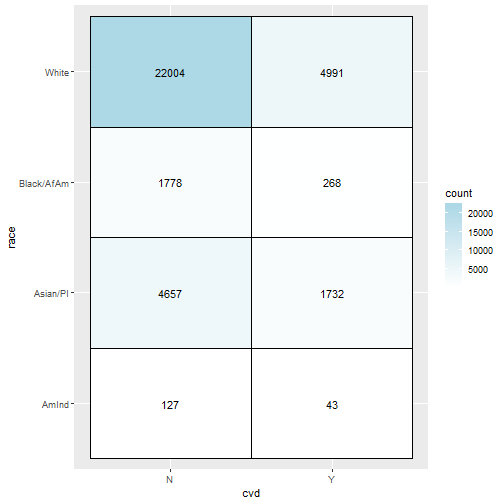
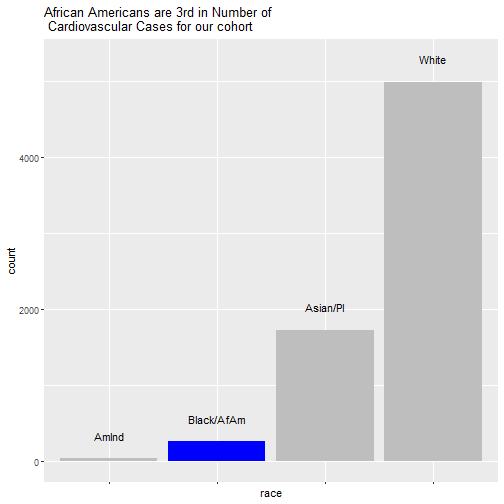
update

diff --git a/index.html b/index.html
@@ -46,10 +46,10 @@ class: center, middle
 ---
 # Motivation: Exploratory versus Explanatory
 
-- **Exploratory analysis**: 
-    - exploring and understanding the data, conducting the analysis
-- **Explanatory analysis**: 
-    - explaining your findings from your analysis in a coherent narrative that leads to a call to action
+**Exploratory analysis**: 
+  - exploring and understanding the data, conducting the analysis
+**Explanatory analysis**: 
+  - explaining your findings from your analysis in a coherent narrative that leads to a call to action
 
 ---
 # You are not your audience
@@ -163,6 +163,8 @@ May be better than straight tables! Highlight differences using color.
 .pull-right[
 &lt;img src="img/heatmap.png" width="731" /&gt;
 ]
+
+.footnote[Storytelling with Data]
 ---
 # `geom_count()`
 
@@ -184,30 +186,18 @@ Focus on three techniques
 ---
 # Preattentive Attributes
 
+.pull-left[
 Ways to highlight properties of graphs even before people are even "paying attention", or consciously processing the graph:
 
 - color
-- contrast
+- contrast]
 
----
-# Let's summarize the data
+.pull-right[
+&lt;img src="img/threes.png" width="743" /&gt;
 
-Summarizing by race and cardiovascular disease
+]
 
-Using `group_by()/summarize()`:
-
-
-```r
-cvd_race_count &lt;- cvd_patient %&gt;% 
-  mutate(race=factor(race)) %&gt;% 
-* group_by(race, cvd) %&gt;% summarize(count=n())
-```
----
-# CVD Race Count
-
-<div id="htmlwidget-e00c11b859fe72aed91b" style="width:100%;height:auto;" class="datatables html-widget"></div>
-<script type="application/json" data-for="htmlwidget-e00c11b859fe72aed91b">{"x":{"filter":"none","data":[["1","2","3","4","5","6","7","8"],["AmInd","AmInd","Asian/PI","Asian/PI","Black/AfAm","Black/AfAm","White","White"],["N","Y","N","Y","N","Y","N","Y"],[127,43,4657,1732,1778,268,22004,4991]],"container":"<table class=\"display\">\n  <thead>\n    <tr>\n      <th> <\/th>\n      <th>race<\/th>\n      <th>cvd<\/th>\n      <th>count<\/th>\n    <\/tr>\n  <\/thead>\n<\/table>","options":{"columnDefs":[{"className":"dt-right","targets":3},{"orderable":false,"targets":0}],"order":[],"autoWidth":false,"orderClasses":false}},"evals":[],"jsHooks":[]}</script>
-
+.footnote[Storytelling with Data]
 ---
 # Context: Ways to highlight parts of a graph
 
@@ -232,8 +222,8 @@ fullset &lt;- cvd_patient %&gt;%
 
 There's a new column called `highlight`:
 
-<div id="htmlwidget-daec2fc930e0523d78b9" style="width:100%;height:auto;" class="datatables html-widget"></div>
-<script type="application/json" data-for="htmlwidget-daec2fc930e0523d78b9">{"x":{"filter":"none","data":[["1","2","3","4"],["AmInd","Asian/PI","Black/AfAm","White"],[43,1732,268,4991],["N","N","Y","N"]],"container":"<table class=\"display\">\n  <thead>\n    <tr>\n      <th> <\/th>\n      <th>race<\/th>\n      <th>count<\/th>\n      <th>highlight<\/th>\n    <\/tr>\n  <\/thead>\n<\/table>","options":{"columnDefs":[{"className":"dt-right","targets":2},{"orderable":false,"targets":0}],"order":[],"autoWidth":false,"orderClasses":false}},"evals":[],"jsHooks":[]}</script>
+<div id="htmlwidget-083fcf0e1bafbac55fb4" style="width:100%;height:auto;" class="datatables html-widget"></div>
+<script type="application/json" data-for="htmlwidget-083fcf0e1bafbac55fb4">{"x":{"filter":"none","data":[["1","2","3","4"],["AmInd","Asian/PI","Black/AfAm","White"],[43,1732,268,4991],["N","N","Y","N"]],"container":"<table class=\"display\">\n  <thead>\n    <tr>\n      <th> <\/th>\n      <th>race<\/th>\n      <th>count<\/th>\n      <th>highlight<\/th>\n    <\/tr>\n  <\/thead>\n<\/table>","options":{"columnDefs":[{"className":"dt-right","targets":2},{"orderable":false,"targets":0}],"order":[],"autoWidth":false,"orderClasses":false}},"evals":[],"jsHooks":[]}</script>
 
 ---
 ## Highlighting the data
@@ -256,7 +246,7 @@ out_plot &lt;- ggplot(data=fullset, aes(x=race, y=count, fill=highlight)) +
 ---
 # Resulting Graph
 
-![](index_files/figure-html/unnamed-chunk-9-1.png)&lt;!-- --&gt;
+![](index_files/figure-html/unnamed-chunk-8-1.png)&lt;!-- --&gt;
 
 ---
 # Reduce Clutter
@@ -277,6 +267,27 @@ Lots of prebuilt themes are really useful!
 https://ggplot2.tidyverse.org/reference/theme.html
 
 ---
+# Let's summarize the data
+
+Summarizing by race and cardiovascular disease
+
+Using `group_by()/summarize()`:
+
+
+```r
+cvd_race_count &lt;- cvd_patient %&gt;% 
+  mutate(race=factor(race)) %&gt;% 
+* group_by(race, cvd) %&gt;% summarize(count=n())
+```
+---
+# CVD Race Count
+
+<div id="htmlwidget-e93626cfbef96eecda38" style="width:100%;height:auto;" class="datatables html-widget"></div>
+<script type="application/json" data-for="htmlwidget-e93626cfbef96eecda38">{"x":{"filter":"none","data":[["1","2","3","4","5","6","7","8"],["AmInd","AmInd","Asian/PI","Asian/PI","Black/AfAm","Black/AfAm","White","White"],["N","Y","N","Y","N","Y","N","Y"],[127,43,4657,1732,1778,268,22004,4991]],"container":"<table class=\"display\">\n  <thead>\n    <tr>\n      <th> <\/th>\n      <th>race<\/th>\n      <th>cvd<\/th>\n      <th>count<\/th>\n    <\/tr>\n  <\/thead>\n<\/table>","options":{"columnDefs":[{"className":"dt-right","targets":3},{"orderable":false,"targets":0}],"order":[],"autoWidth":false,"orderClasses":false}},"evals":[],"jsHooks":[]}</script>
+
+
+
+---
 # Heatmap Example
 
 
@@ -291,7 +302,7 @@ heat_map &lt;- cvd_race_count %&gt;%
 ---
 # Resulting Plot
 
-![](index_files/figure-html/unnamed-chunk-11-1.png)&lt;!-- --&gt;
+![](index_files/figure-html/unnamed-chunk-12-1.png)&lt;!-- --&gt;
 
 ---
 # Decluttering a heatmap using `theme()`
@@ -318,7 +329,7 @@ heat_map &lt;- cvd_race_count %&gt;%
 ---
 # Resulting Graph
 
-![](index_files/figure-html/unnamed-chunk-13-1.png)&lt;!-- --&gt;
+![](index_files/figure-html/unnamed-chunk-14-1.png)&lt;!-- --&gt;
 
 ---
 # Context: Make your categories more understandable
@@ -327,19 +338,21 @@ Use of `case_when()` to recode categorical data:
 
 
 ```r
-recoded_data &lt;- cvd_patient %&gt;% 
+cvd_patient %&gt;% 
 * mutate(smoking = case_when(smoking == "Y" ~ "smoker",
 *                            smoking == "N" ~ "non-smoker")) %&gt;%
   mutate(cvd= case_when(cvd == "N" ~ "CVD",
                         cvd == "Y" ~ "None")) %&gt;%
   select(smoking, cvd) %&gt;%
   table()
-
-DT::datatable(recoded_data)
 ```
 
-<div id="htmlwidget-907d749347a80a98ddac" style="width:100%;height:auto;" class="datatables html-widget"></div>
-<script type="application/json" data-for="htmlwidget-907d749347a80a98ddac">{"x":{"filter":"none","data":[["non-smoker","smoker","non-smoker","smoker"],["non-smoker","smoker","non-smoker","smoker"],["CVD","CVD","None","None"],[25653,2913,5620,1414]],"container":"<table class=\"display\">\n  <thead>\n    <tr>\n      <th> <\/th>\n      <th>smoking<\/th>\n      <th>cvd<\/th>\n      <th>Freq<\/th>\n    <\/tr>\n  <\/thead>\n<\/table>","options":{"columnDefs":[{"className":"dt-right","targets":[1,2]},{"orderable":false,"targets":0}],"order":[],"autoWidth":false,"orderClasses":false}},"evals":[],"jsHooks":[]}</script>
+```
+##             cvd
+## smoking        CVD  None
+##   non-smoker 25653  5620
+##   smoker      2913  1414
+```
 
 ---
 # Context: Annotating a graph using `annotate`:
@@ -369,7 +382,7 @@ out_plot &lt;- lace_table %&gt;%
 ---
 # Resulting Plot
 
-![](index_files/figure-html/unnamed-chunk-16-1.png)&lt;!-- --&gt;
+![](index_files/figure-html/unnamed-chunk-17-1.png)&lt;!-- --&gt;
 
 ---
 # Making things a little less cluttered
@@ -382,7 +395,8 @@ out_plot &lt;- lace_table %&gt;%
   filter(Readmit30 == 1) %&gt;%
   mutate(lace7 = ifelse(LACE &gt; 7, "Y", "N")) %&gt;% 
   ggplot(aes(y=as.factor(Admit_source), x=LACE, color=lace7)) + 
-  geom_count() + scale_color_manual(values=c("Y"="orange", "N"="grey")) +
+  geom_count() + 
+  scale_color_manual(values=c("Y"="orange", "N"="grey")) +
 * theme_minimal() +
 * geom_vline(xintercept=8, lty=3) +
 * theme(legend.position = "none", axis.title.y = element_blank())
@@ -391,7 +405,7 @@ out_plot &lt;- lace_table %&gt;%
 ---
 # Resulting Plot
 
-![](index_files/figure-html/unnamed-chunk-18-1.png)&lt;!-- --&gt;
+![](index_files/figure-html/unnamed-chunk-19-1.png)&lt;!-- --&gt;
 
 ---
 # Adding Annotation
@@ -403,26 +417,24 @@ lace_table &lt;- read.delim("data/analytic-table-LACE.txt")
 out_plot &lt;- lace_table %&gt;% 
   filter(Readmit30 == 1) %&gt;%
   mutate(lace7 = ifelse(LACE &gt; 7, "Y", "N")) %&gt;% 
+
   ggplot(aes(y=as.factor(Admit_source), x=LACE, color=lace7)) + 
-  geom_count() + scale_color_manual(values=c("Y"="orange", "N"="grey")) +
-  theme_minimal() + 
+  geom_count() + 
+  scale_color_manual(values=c("Y"="orange", "N"="grey")) +
+* theme_minimal() +
+* theme(text =element_text(size=16)) +
   geom_vline(xintercept=8, lty=3) +
   theme(legend.position = "none", axis.title.y = element_blank()) +  
 * annotate("text",x = 5, y= 2.3, label="Low Risk") +
 * annotate("text", x=10, y=2.3, label = "High Risk" ) +
 * scale_size_area(max_size = 10) +
-  ggtitle("LACE Cutoff of 7 targets Emergency Room Readmits")
+  ggtitle("LACE Cutoff of 7 targets\n Emergency Room Readmits")
 ```
 
 ---
 # The Resulting Plot
 
-
-```r
-out_plot
-```
-
-![](index_files/figure-html/unnamed-chunk-20-1.png)&lt;!-- --&gt;
+![](index_files/figure-html/unnamed-chunk-21-1.png)&lt;!-- --&gt;
 
 ---
 
@@ -452,7 +464,7 @@ out_plot &lt;- cvd_race_count %&gt;%
 ---
 # The Plot
 
-![](index_files/figure-html/unnamed-chunk-22-1.png)&lt;!-- --&gt;
+![](index_files/figure-html/unnamed-chunk-23-1.png)&lt;!-- --&gt;
 
 ---
 # `ggplot2` flipbook
@@ -483,7 +495,8 @@ https://evamaerey.github.io/ggplot_flipbook/ggplot_flipbook_xaringan.html
 
 - Source for these slides: https://github.com/laderast/data_storytelling_talk
 - [Allison Sliter: Data Presentation for Everyone](https://ww2.amstat.org/meetings/sdss/2019/onlineprogram/AbstractDetails.cfm?AbstractID=306642)
-- [ggplot2 flipbook](https://evamaerey.github.io/ggplot_flipbook/ggplot_flipbook_xaringan.html)
+- [`ggplot2` flipbook](https://evamaerey.github.io/ggplot_flipbook/ggplot_flipbook_xaringan.html)
+- [Alison Hill: Take a Sad Plot and Make it Better](https://alison.rbind.io/talk/2018-ohsu-sad-plot-better/)
 - [Storytelling with Data](http://www.storytellingwithdata.com/books)
 - Slides are done with xaringan/xaringanthemer
     </textarea>
